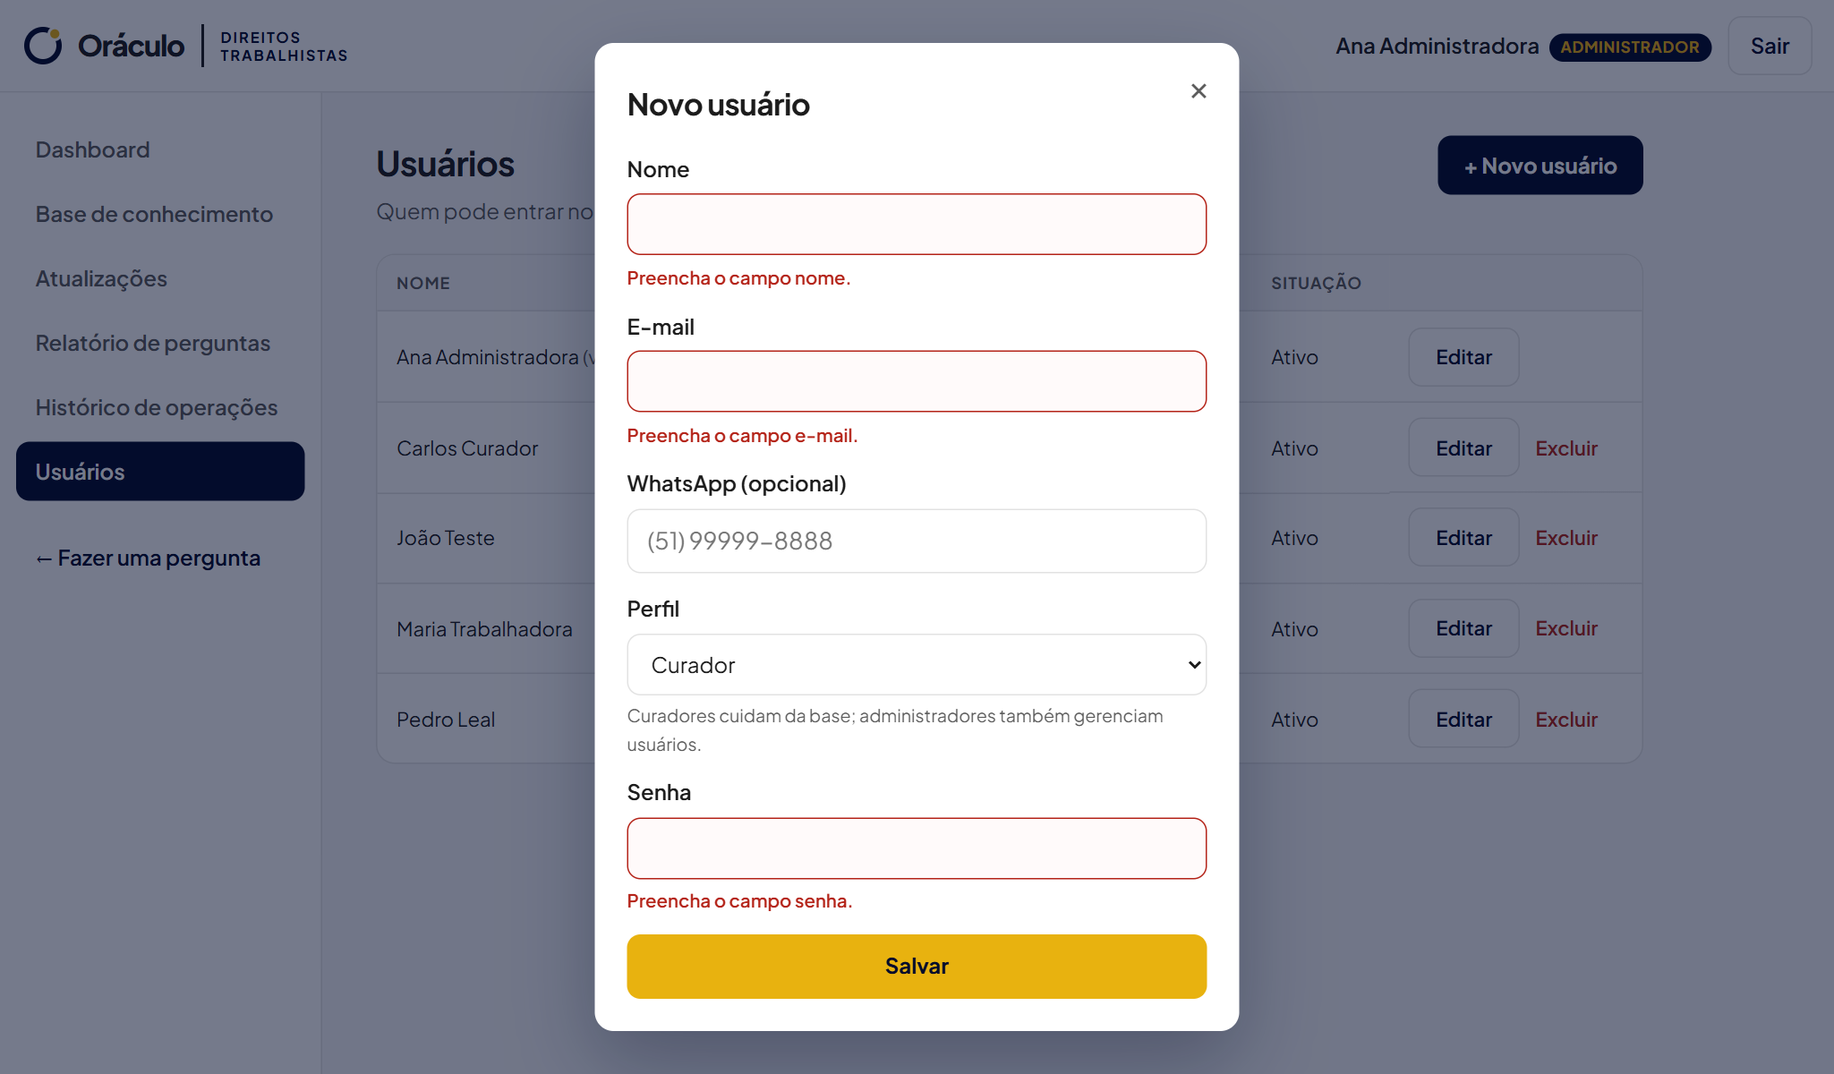
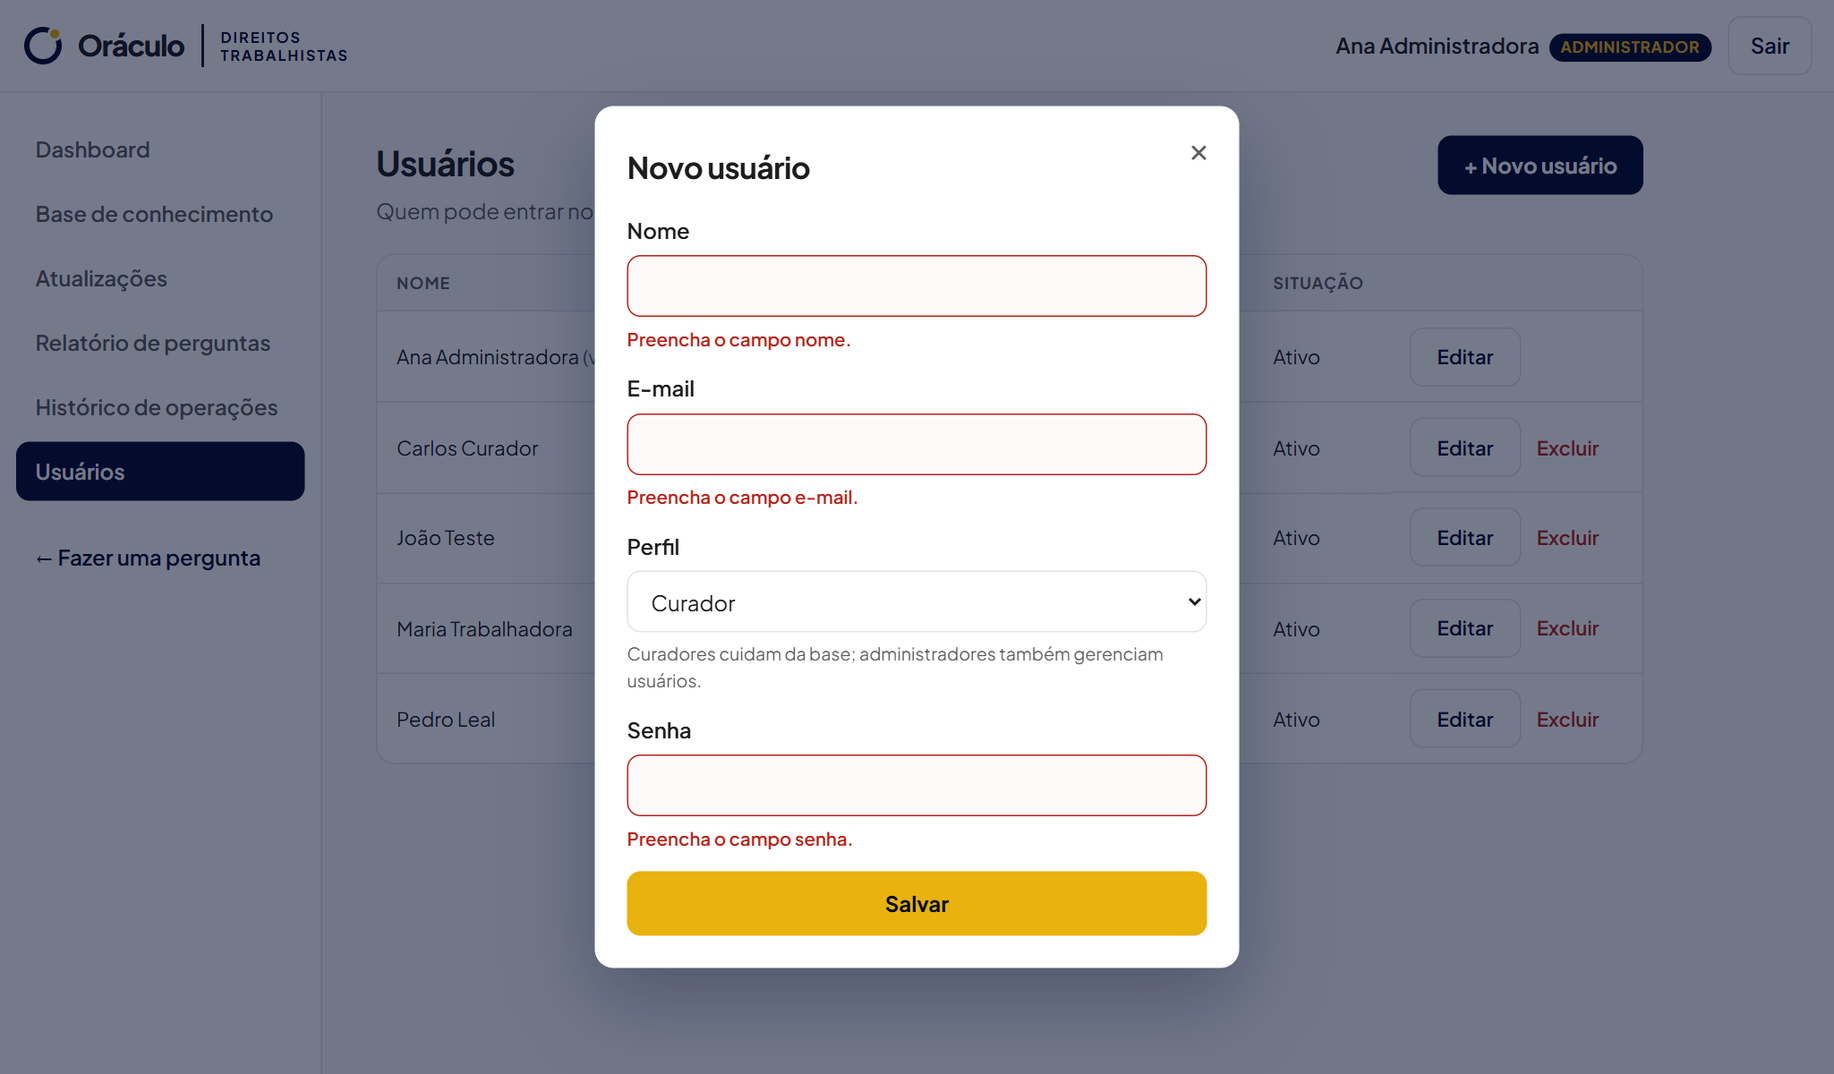
Diagramas da Sprint 02, prints refeitos e situação das Sprints atualizada
Data: 03/11/2026
Objetivo: completar a documentação técnica pedida na Sprint 02 e deixar as evidências iguais ao sistema atual.

O que foi feito:
- docs/sprints/sprint-02/diagramas.md: arquitetura, diagrama de classes, MER e modelo relacional (14 tabelas), com explicação.
- Os 35 prints e os CSVs foram refeitos no sistema real (cadastro e login com e-mail); roteiro aprovado nos 35 passos.
- Contas de demonstração e de teste passam a usar o domínio reservado example.com, que nunca recebe e-mail.
- Situação das Sprints 02, 05, 06 e 09 atualizada; contagem de testes corrigida (88).

Como agrega: a Sprint 02 fica completa e o relatório passa a mostrar as telas como elas estão hoje.

diff --git a/docs/ferramentas/capturar_evidencias.py b/docs/ferramentas/capturar_evidencias.py
@@ -78,7 +78,7 @@ def criar(r):
     p.get_by_role("button", name="Entrar", exact=True).last.click()
     expect(p.get_by_text("Preencha o campo e-mail.")).to_be_visible()
     r.print("02-login-validacao")
-    p.fill("#entrar-email", "ninguem@oraculo.com.br")
+    p.fill("#entrar-email", "ninguem@example.com")
     p.fill("#entrar-senha", "senha-errada-123")
     p.get_by_role("button", name="Entrar", exact=True).last.click()
     expect(p.get_by_text("E-mail ou senha incorretos.")).to_be_visible()
@@ -101,7 +101,7 @@ def criar(r):
     p.get_by_role("button", name="Criar conta").click()
     expect(p.get_by_text("Já existe um usuário com este e-mail.", exact=False)).to_be_visible()
     r.print("05-cadastro-email-repetido")
-    email_novo = f"joao.teste{random.randint(1000, 9999)}@oraculo.com.br"
+    email_novo = f"joao.teste{random.randint(1000, 9999)}@example.com"
     p.fill("#cadastro-email", email_novo)
     p.get_by_role("button", name="Criar conta").click()
     p.wait_for_url("**/painel/temas")

diff --git a/backend/scripts/criar_contas_demonstracao.py b/backend/scripts/criar_contas_demonstracao.py
@@ -23,9 +23,9 @@ from app.seguranca import gerar_hash_senha  # noqa: E402
 ARQUIVO_ENV = Path(__file__).resolve().parent.parent / ".env"
 
 CONTAS = [
-    ("administrador", "Ana Administradora", "admin.demo@oraculo.com.br"),
-    ("curador", "Carlos Curador", "curador.demo@oraculo.com.br"),
-    ("usuario", "Maria Trabalhadora", "usuario.demo@oraculo.com.br"),
+    ("administrador", "Ana Administradora", "admin.demo@example.com"),
+    ("curador", "Carlos Curador", "curador.demo@example.com"),
+    ("usuario", "Maria Trabalhadora", "usuario.demo@example.com"),
 ]
 
 

diff --git a/docs/sprints/sprint-02/diagramas.md b/docs/sprints/sprint-02/diagramas.md
@@ -1,0 +1,169 @@
+# Sprint 02 — Diagramas técnicos
+
+[← Voltar à Sprint 02](README.md)
+
+Os diagramas abaixo descrevem o sistema como ele está implementado. O GitHub desenha os blocos `mermaid` automaticamente, e o relatório em PDF usa os mesmos desenhos.
+
+## 1. Arquitetura do sistema
+
+O Oráculo segue uma arquitetura em camadas: a interface em React conversa apenas com a API em Python (FastAPI), que concentra as regras de negócio e é a única parte com acesso ao banco de dados, à IA e ao envio de e-mails. As chaves de acesso ficam só no backend.
+
+```mermaid
+flowchart LR
+    pessoa([Pessoa que consulta])
+    equipe([Equipe: curador e administrador])
+    subgraph vercel[Vercel]
+        front[Frontend React<br/>consulta pública e painel]
+        api[API FastAPI em Python<br/>rotas, regras de negócio e validações]
+    end
+    banco[(Supabase<br/>PostgreSQL)]
+    ia[Google Gemini<br/>geração da resposta]
+    email[Gmail<br/>envio de e-mails]
+    cartilha[Cartilha do TRT4<br/>extraída por script]
+
+    pessoa --> front
+    equipe --> front
+    front -- "HTTPS /api" --> api
+    api -- "busca textual, dados e histórico" --> banco
+    api -- "pergunta + trechos da cartilha" --> ia
+    api -- "Saber mais e novidades" --> email
+    cartilha -. "carregada uma vez" .-> banco
+```
+
+**Fluxo da consulta (RAG):** a pergunta chega à API, que busca no banco os trechos mais relevantes da cartilha; a IA recebe só esses trechos e escreve a resposta; a API confere as fontes citadas, grava a pergunta para auditoria e devolve a resposta à tela.
+
+## 2. Diagrama de classes
+
+As principais classes do backend e como elas se relacionam. As rotas usam os serviços por injeção de dependência, o que permite trocar o banco, a IA e o e-mail por versões simuladas nos testes automatizados.
+
+```mermaid
+classDiagram
+    direction LR
+    class Configuracao {
+        +supabase_url
+        +supabase_chave_servico
+        +email_remetente
+        +email_senha_app
+    }
+    class RepositorioSupabase {
+        +buscar_trechos(consulta)
+        +salvar_pergunta(texto, resposta, encontrou, trechos)
+        +criar_usuario(nome, email, senha_hash, perfil)
+        +criar_inscricao(usuario_id, tema_id, email)
+        +criar_atualizacao(tema_id, titulo, conteudo, url, autor)
+        +listar_materiais()
+        +registrar_operacao(usuario, acao, entidade, id, descricao)
+    }
+    class AssistenteIA {
+        +modelo
+        +responder(pergunta, trechos)
+    }
+    class EnviadorEmail {
+        +remetente
+        +enviar(destinatario, conteudo)
+    }
+    class Materiais {
+        <<módulo>>
+        +escolher_assunto(pergunta, cadastrados)
+        +montar_materiais(pergunta, tema, url_cartilha, cadastrados)
+    }
+    class RotasConsulta {
+        <<rotas>>
+        +perguntar(pergunta)
+        +saiba_mais(pedido)
+    }
+    class RotasBaseConhecimento {
+        <<rotas>>
+        +listar / criar / alterar / excluir trecho
+    }
+    class RotasAtualizacoes {
+        <<rotas>>
+        +publicar(atualizacao)
+        +reenviar(id)
+    }
+    class RotasUsuarios {
+        <<rotas>>
+        +criar / alterar / excluir usuário
+    }
+    class Usuario {
+        +id
+        +nome
+        +email
+        +perfil: administrador | curador | usuario
+        +ativo
+    }
+
+    RepositorioSupabase ..> Configuracao : usa
+    EnviadorEmail ..> Configuracao : usa
+    RotasConsulta --> RepositorioSupabase
+    RotasConsulta --> AssistenteIA
+    RotasConsulta --> EnviadorEmail
+    RotasConsulta --> Materiais
+    RotasBaseConhecimento --> RepositorioSupabase
+    RotasAtualizacoes --> RepositorioSupabase
+    RotasAtualizacoes --> EnviadorEmail
+    RotasUsuarios --> RepositorioSupabase
+    RotasUsuarios ..> Usuario
+```
+
+## 3. Modelo entidade-relacionamento (MER)
+
+```mermaid
+erDiagram
+    TEMA ||--o{ TRECHO : "contém"
+    TEMA ||--o{ INSCRICAO : "é acompanhado em"
+    TEMA ||--o{ ATUALIZACAO : "recebe"
+    TEMA ||--o{ MATERIAL_COMPLEMENTAR : "tem"
+    PERGUNTA }o--o{ TRECHO : "usa como fonte"
+    PERGUNTA ||--o{ SOLICITACAO : "gera"
+    SOLICITACAO ||--o{ MATERIAL_ENVIADO : "envia"
+    USUARIO ||--o{ SESSAO : "abre"
+    USUARIO ||--o{ INSCRICAO : "faz"
+    USUARIO ||--o{ ATUALIZACAO : "publica"
+    USUARIO ||--o{ HISTORICO : "realiza"
+    USUARIO ||--o{ TRECHO : "atualiza"
+    ATUALIZACAO }o--o{ INSCRICAO : "é enviada para"
+```
+
+| Entidade | O que representa |
+| --- | --- |
+| Tema | Uma das 25 páginas da cartilha do TRT4 (Férias, Rescisão...) |
+| Trecho | Um subtítulo da cartilha, usado como fonte das respostas |
+| Pergunta | Pergunta feita na consulta, com a resposta gerada (sem dados pessoais) |
+| Solicitação | Pedido de "Saber mais": nome, e-mail, autorização e situação do envio |
+| Material enviado | Site ou vídeo enviado em cada solicitação |
+| Material complementar | Sites e vídeos escolhidos pela equipe para cada assunto |
+| Usuário | Conta com perfil administrador, curador ou usuário |
+| Sessão | Login ativo de um usuário |
+| Inscrição | Tema que um usuário acompanha |
+| Atualização | Novidade publicada pela equipe sobre um tema |
+| Histórico | Registro de cada operação: quem fez, o quê e quando |
+
+## 4. Modelo relacional
+
+Implementado no Supabase pelos scripts [`supabase/001`](../../../supabase/) a `007`. **PK** = chave primária; **FK** = chave estrangeira.
+
+| Tabela | Colunas | Chaves |
+| --- | --- | --- |
+| `temas` | id, nome, slug, url, criado_em | PK id |
+| `trechos` | id, tema_id, secao, ordem, texto, busca, atualizado_por, atualizado_em | PK id; FK tema_id → temas; FK atualizado_por → usuarios |
+| `sinonimos` | termo, equivalentes | PK termo |
+| `perguntas` | id, texto, resposta, encontrou, criado_em | PK id |
+| `pergunta_trechos` | pergunta_id, trecho_id | PK (pergunta_id, trecho_id); FK → perguntas; FK → trechos |
+| `solicitacoes_conteudo` | id, pergunta_id, nome, email, consentimento, status, erro, criado_em, enviado_em | PK id; FK pergunta_id → perguntas |
+| `materiais_enviados` | id, solicitacao_id, tipo, titulo, url | PK id; FK solicitacao_id → solicitacoes_conteudo |
+| `materiais_complementares` | id, tema_id, assunto, palavras_chave, tipo, titulo, url, ordem, criado_em | PK id; FK tema_id → temas |
+| `usuarios` | id, nome, email, senha_hash, perfil, ativo, consentimento_email, criado_em, atualizado_em | PK id; e-mail único |
+| `sessoes` | token_hash, usuario_id, criada_em, expira_em | PK token_hash; FK usuario_id → usuarios |
+| `inscricoes_tema` | id, tema_id, usuario_id, email, consentimento, ativa, criado_em, cancelado_em | PK id; FK tema_id → temas; FK usuario_id → usuarios; único (tema, e-mail) |
+| `atualizacoes` | id, tema_id, autor_id, titulo, conteudo, url, publicado_em | PK id; FK tema_id → temas; FK autor_id → usuarios |
+| `envios_atualizacao` | atualizacao_id, inscricao_id, status, enviado_em | PK (atualizacao_id, inscricao_id); FK → atualizacoes; FK → inscricoes_tema |
+| `historico_operacoes` | id, usuario_id, usuario_nome, acao, entidade, entidade_id, descricao, criado_em | PK id; FK usuario_id → usuarios |
+
+**Segurança (RNF03):** todas as tabelas têm o acesso público bloqueado (RLS); só o backend, com a chave de serviço, lê e grava os dados. As senhas são guardadas apenas como hash (scrypt), e as sessões guardam só o hash do token.
+
+## 5. Protótipos das telas
+
+As telas foram construídas direto no sistema, que funciona como protótipo navegável. Os prints de cada tela estão nas Sprints [03](../sprint-03/README.md), [04](../sprint-04/README.md), [05](../sprint-05/README.md), [06](../sprint-06/README.md) e [07](../sprint-07/README.md).
+
+![Tela de consulta](../../evidencias/01-consulta-inicial.png)

diff --git a/docs/sprints/sprint-02/README.md b/docs/sprints/sprint-02/README.md
@@ -1,6 +1,6 @@
 # Sprint 02 — Arquitetura, modelagem e protótipos
 
-**Situação:** Em andamento: banco e estrutura prontos; diagramas e documento técnico em elaboração · [← Voltar ao índice](../../README.md)
+**Situação:** Concluída · [← Voltar ao índice](../../README.md)
 
 ## O que a Sprint pediu
 
@@ -10,10 +10,10 @@ Transformar o planejamento em estrutura técnica: arquitetura do sistema, diagra
 
 | Item pedido | Entrega | Situação | Onde ver |
 | --- | --- | --- | --- |
-| Arquitetura do sistema | Frontend React → API FastAPI → Supabase (PostgreSQL), Google Gemini e envio de e-mails pelo Gmail | Implementada; diagrama em elaboração | [README principal](../../../README.md#como-funciona) |
-| Diagrama de classes | Classes de domínio e de serviço do backend | Em elaboração | — |
-| MER | Entidades: tema, trecho, pergunta, usuário, sessão, inscrição, atualização, envio, solicitação, material, histórico | Em elaboração | — |
-| Modelo relacional | 13 tabelas com chaves primárias e estrangeiras | Implementado no banco; diagrama em elaboração | [Scripts SQL](../../../supabase/) |
+| Arquitetura do sistema | Frontend React → API FastAPI → Supabase (PostgreSQL), Google Gemini e envio de e-mails pelo Gmail | Concluída | [Diagrama de arquitetura](diagramas.md#1-arquitetura-do-sistema) |
+| Diagrama de classes | Classes de serviço e rotas do backend | Concluído | [Diagrama de classes](diagramas.md#2-diagrama-de-classes) |
+| MER | Entidades: tema, trecho, pergunta, usuário, sessão, inscrição, atualização, envio, solicitação, material, histórico | Concluído | [MER](diagramas.md#3-modelo-entidade-relacionamento-mer) |
+| Modelo relacional | 14 tabelas com chaves primárias e estrangeiras | Concluído e implementado no banco | [Modelo relacional](diagramas.md#4-modelo-relacional) |
 | Protótipo das telas | Telas funcionais no próprio sistema (consulta, resposta, Saiba mais) | Concluído | [Identidade visual, seção 14](../sprint-01/relatorio.md#14-identidade-visual) |
 | Banco de dados criado | Supabase com a cartilha do TRT4 carregada (25 temas, 217 trechos) | Concluído | [supabase/](../../../supabase/) |
 | Projeto no GitHub | Estrutura `backend/`, `frontend/`, `supabase/` e `docs/` | Concluído | [Repositório](https://github.com/PedroHTLeal/oraculo_direitos_trabalhistas_8na) |
@@ -35,6 +35,6 @@ Transformar o planejamento em estrutura técnica: arquitetura do sistema, diagra
 - **Banco de dados:** foi escolhido o Supabase (PostgreSQL gerenciado e gratuito), com busca textual em português no lugar de um banco vetorial. A cartilha tem apenas 217 trechos, e a busca textual com sinônimos se mostrou suficiente e sem custo.
 - **Protótipos:** em vez de um protótipo no Figma, a equipe construiu as telas direto no sistema, que já funcionam como protótipo navegável.
 
-## Pendências
+## Documento técnico
 
-- Diagramas de arquitetura, de classes, MER e relacional, com explicação de cada um, no documento técnico desta Sprint.
+Os diagramas de arquitetura, de classes, MER e relacional, com a explicação de cada um, estão em [diagramas.md](diagramas.md).

diff --git a/docs/sprints/sprint-09/README.md b/docs/sprints/sprint-09/README.md
@@ -1,6 +1,6 @@
 # Sprint 09 — Verificação completa e documentação
 
-**Situação:** Em andamento: testes com o banco real, a IA (Gemini) e o envio de e-mail reais concluídos; faltam refazer os prints das telas de conta · [← Voltar ao índice](../../README.md)
+**Situação:** Concluída: testes com o banco real, a IA (Gemini) e o envio de e-mail reais; prints refeitos em 03/11/2026 · [← Voltar ao índice](../../README.md)
 
 ## O que a Sprint pediu
 
@@ -10,11 +10,11 @@ Testes funcionais, correção de bugs, testes de validação, testes de navegaç
 
 | Tipo | Ferramenta | Resultado |
 | --- | --- | --- |
-| **Automatizados (backend)** | 97 testes com `pytest` (rodar `pytest` em `backend/`), com versões simuladas do banco, da IA e do e-mail | 97 de 97 passando |
-| **Funcionais, de validação e de navegação** | Roteiro [`capturar_evidencias.py`](../../ferramentas/capturar_evidencias.py), que usa o navegador Edge, o sistema rodando localmente e o **banco real** no Supabase. Cada passo verifica o que deve aparecer na tela e salva um print | 35 de 35 passos aprovados (02/11/2026) |
+| **Automatizados (backend)** | 88 testes com `pytest` (rodar `pytest` em `backend/`), com versões simuladas do banco, da IA e do e-mail | 88 de 88 passando |
+| **Funcionais, de validação e de navegação** | Roteiro [`capturar_evidencias.py`](../../ferramentas/capturar_evidencias.py), que usa o navegador Edge, o sistema rodando localmente e o **banco real** no Supabase. Cada passo verifica o que deve aparecer na tela e salva um print | 35 de 35 passos aprovados (03/11/2026) |
 | **Persistência** | O roteiro roda em duas fases; entre elas o sistema é encerrado e aberto de novo | Dados mantidos |
 
-## Casos de teste (sistema real, 02/11/2026)
+## Casos de teste (sistema real, 02 e 03/11/2026)
 
 | # | Caso de teste | Perfil | Resultado esperado | Resultado obtido | Evidência |
 | --- | --- | --- | --- | --- | --- |
@@ -60,7 +60,4 @@ Testes funcionais, correção de bugs, testes de validação, testes de navegaç
 
 | Pendência | Ação prevista |
 | --- | --- |
-| Refazer os prints das telas de conta (cadastro e login com e-mail) | Rodar de novo o roteiro [`capturar_evidencias.py`](../../ferramentas/capturar_evidencias.py) |
 | Mais assuntos com sites e vídeos escolhidos | A equipe envia os links das demais perguntas sugeridas |
-| Relatório de perguntas com dados | Gerado automaticamente depois que a IA estiver respondendo |
-| Diagramas técnicos (arquitetura, classes, MER e relacional) | Incluir no documento técnico ([Sprint 02](../sprint-02/README.md)) |

diff --git a/docs/README.md b/docs/README.md
@@ -13,14 +13,14 @@ Esta pasta reúne tudo o que foi pedido e entregue em cada Sprint das disciplina
 | Sprint | Tema | Situação | Principais entregas |
 | --- | --- | --- | --- |
 | [01](sprints/sprint-01/README.md) | Planejamento inicial | Concluída | Requisitos, casos de uso, backlog, cronograma · [relatório completo](sprints/sprint-01/relatorio.md) |
-| [02](sprints/sprint-02/README.md) | Arquitetura, modelagem e protótipos | Em andamento | Banco no Supabase com a cartilha do TRT4, modelo relacional, telas e identidade visual |
+| [02](sprints/sprint-02/README.md) | Arquitetura, modelagem e protótipos | Concluída | Banco no Supabase com a cartilha do TRT4, diagramas de arquitetura, classes, MER e relacional, telas e identidade visual |
 | [03](sprints/sprint-03/README.md) | Base funcional | Concluída | Login, cadastro, perfis, CRUD da base de conhecimento e deploy local |
 | [04](sprints/sprint-04/README.md) | Módulo 1: gestão da base de conhecimento | Concluída | Persistência (testada reiniciando o sistema), validações, mensagens de erro e navegação |
-| [05](sprints/sprint-05/README.md) | Módulo 2: acompanhamento de temas | Concluída (envio real aguarda a senha de app do Gmail) | Conta com e-mail, temas acompanhados, atualizações por e-mail, regras de negócio e bugs corrigidos |
+| [05](sprints/sprint-05/README.md) | Módulo 2: acompanhamento de temas | Concluída | Conta com e-mail, temas acompanhados, atualizações por e-mail, regras de negócio e bugs corrigidos |
 | [06](sprints/sprint-06/README.md) | Módulo 3 e integração | Em andamento | Consulta com IA (RAG), integração entre os módulos e ajustes de interface |
 | [07](sprints/sprint-07/README.md) | Dashboard e relatórios | Concluída | Dashboard, relatórios, pesquisas, filtros, CSV e histórico de operações |
 | [08](sprints/sprint-08/README.md) | Consolidação | Em andamento | Matriz de permissões por perfil e situação dos requisitos |
-| [09](sprints/sprint-09/README.md) | Verificação e documentação | Em andamento | 97 testes automatizados, 24 casos de teste no sistema real, 6 bugs corrigidos |
+| [09](sprints/sprint-09/README.md) | Verificação e documentação | Concluída | 88 testes automatizados, 26 casos de teste no sistema real, 6 bugs corrigidos |
 
 ## Os três módulos do sistema
 

diff --git a/docs/sprints/sprint-06/README.md b/docs/sprints/sprint-06/README.md
@@ -1,6 +1,6 @@
 # Sprint 06 — Módulo 3, integração e melhorias de interface
 
-**Situação:** Em andamento: módulo 3 e integração prontos no código; aguarda as observações da Pré-Banca e a chave do Gemini · [← Voltar ao índice](../../README.md)
+**Situação:** Em andamento: módulo 3 e integração prontos e testados com a IA real; aguarda as observações da Pré-Banca · [← Voltar ao índice](../../README.md)
 
 ## O que a Sprint pediu
 
@@ -24,7 +24,7 @@ Correções apontadas na Pré-Banca, terceiro módulo implementado, integração
 | Item pedido | Situação |
 | --- | --- |
 | Correções da Pré-Banca | **Pendente:** aguardando as observações recebidas pela equipe |
-| Terceiro módulo | Implementado; a geração de respostas aguarda a chave gratuita do Gemini no `backend/.env` |
+| Terceiro módulo | Implementado e testado com a IA real (Google Gemini) e o envio real de e-mail |
 | Integração entre módulos | Concluída (tabela acima) |
 | Melhorias na interface | Abaixo da resposta, no painel azul (com o símbolo da órbita), o convite **"Quer saber mais sobre o assunto?"** com o botão **Sim**; ao clicar, abre a janela **Saber mais**, que explica o que será enviado e pede só nome, e-mail e a autorização (LGPD); menu por perfil |
 | Ajustes de navegação | Cada perfil começa pela sua área (equipe → Dashboard, usuário → Meus temas); depois de sair, a próxima pessoa não é mais levada à página da anterior (bug B06); "Meus temas" só aparece para quem tem conta de usuário |

diff --git a/docs/sprints/sprint-05/README.md b/docs/sprints/sprint-05/README.md
@@ -1,6 +1,6 @@
 # Sprint 05 — Módulo 2: acompanhamento de temas
 
-**Situação:** Concluída e testada com o banco real; o envio real por e-mail aguarda a senha de app do Gmail · [← Voltar ao índice](../../README.md)
+**Situação:** Concluída e testada com o banco real e com o envio real de e-mail · [← Voltar ao índice](../../README.md)
 
 ## O que a Sprint pediu
 
@@ -17,7 +17,7 @@ Segundo módulo completo, integrado ao banco de dados, com regras de negócio at
 | Segundo módulo | Conta com e-mail, temas acompanhados e atualizações | Telas **Crie sua conta**, **Meus temas** e **Atualizações** |
 | Integração com o banco | Tabelas `usuarios`, `inscricoes_tema`, `atualizacoes` e `envios_atualizacao` | [`supabase/003_modelo_relacional.sql`](../../../supabase/003_modelo_relacional.sql) e [`006_contato_por_email.sql`](../../../supabase/006_contato_por_email.sql) |
 | Regras de negócio | Ver tabela abaixo | [`rotas/atualizacoes.py`](../../../backend/app/rotas/atualizacoes.py) |
-| Testes | 97 testes automatizados no backend (`pytest`) | [`backend/tests/`](../../../backend/tests/) |
+| Testes | Testes automatizados no backend (`pytest`), 88 no total na versão atual | [`backend/tests/`](../../../backend/tests/) |
 | Correção de bugs | Ver tabela de bugs abaixo | — |
 
 ### Regras de negócio implementadas ou atualizadas
